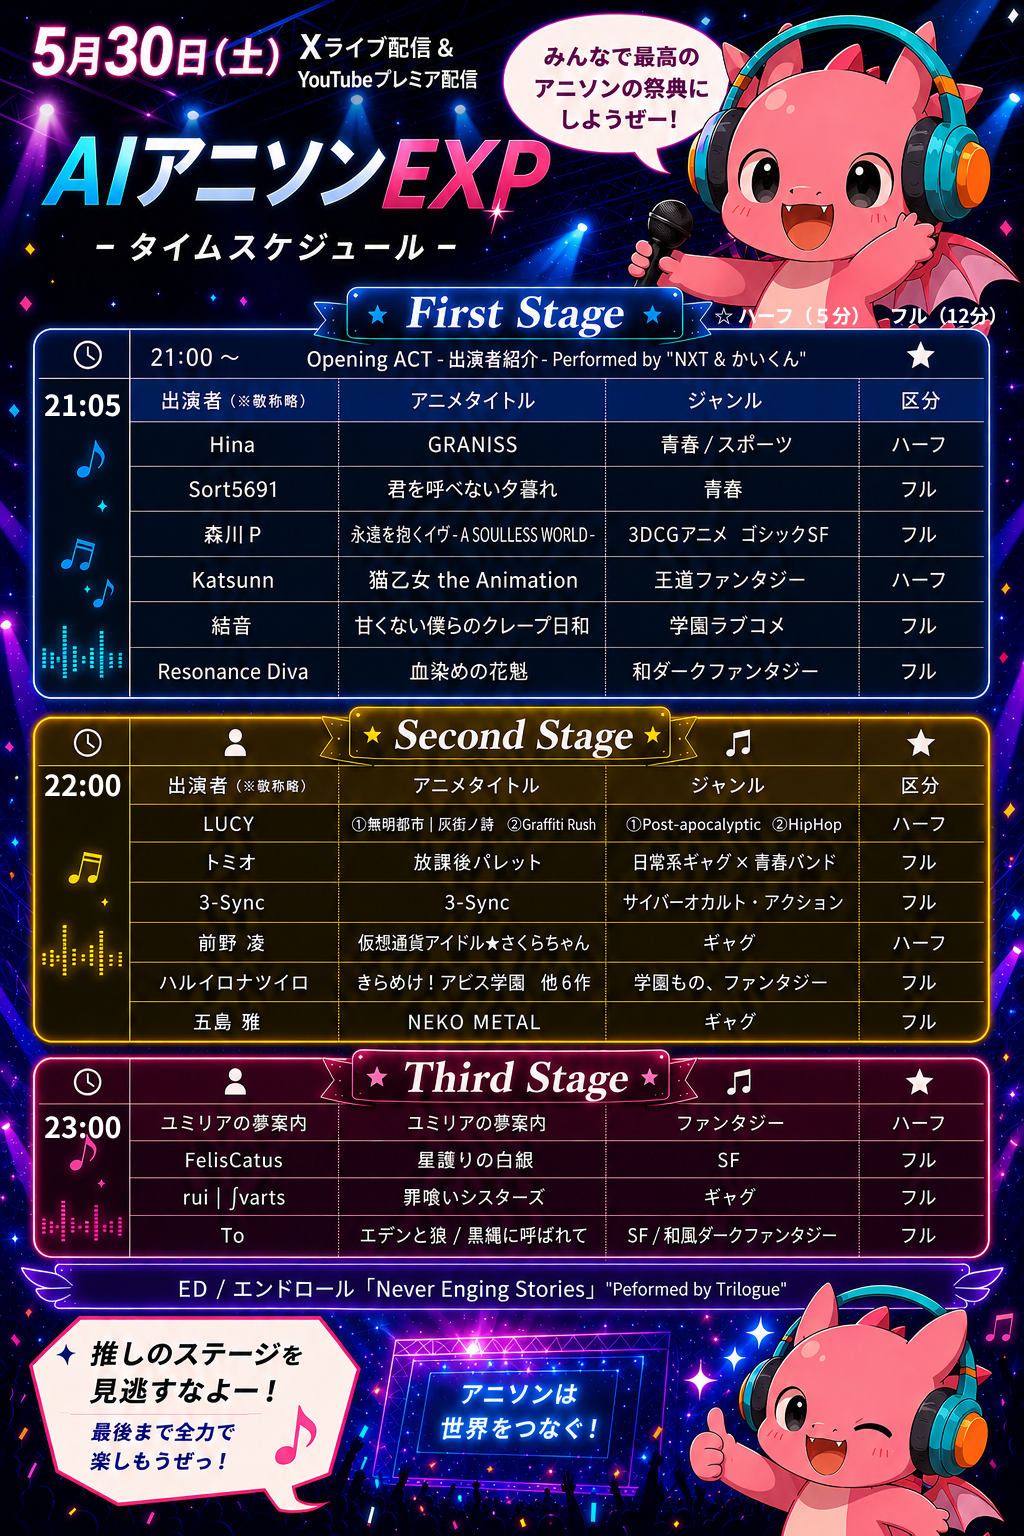
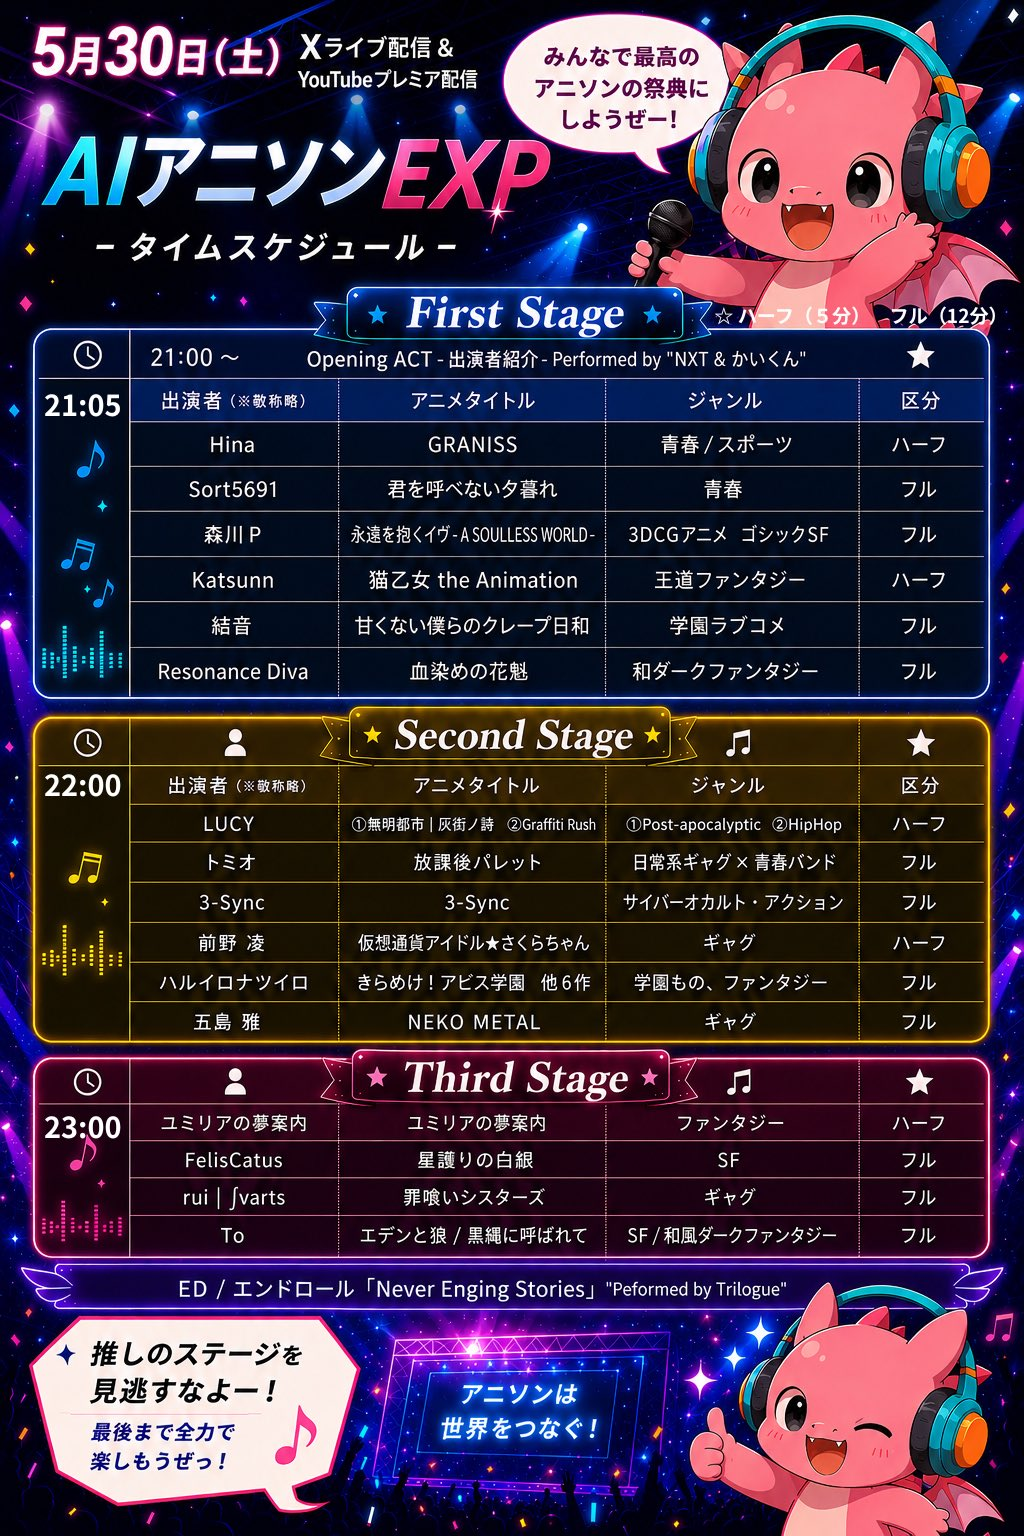
Add files via upload

diff --git a/index.html b/index.html
@@ -11,7 +11,6 @@
 </head>
 <body>
 
-  <!-- Floating Nav -->
   <header class="header">
     <div class="header-inner">
       <div class="header-site-name">AI Anison EXP</div>
@@ -20,7 +19,6 @@
         <a href="#timetable" data-i18n="nav.timetable">Timetable</a>
         <a href="#lineup" data-i18n="nav.lineup">Lineup</a>
         <a href="#petit-events" data-i18n="nav.petit">Petit Events</a>
-        <!-- 言語スイッチ -->
         <button class="lang-switch" id="lang-switch" aria-label="言語切り替え">
           <span class="lang-option" data-lang="en">EN</span>
           <span class="lang-divider">|</span>
@@ -30,46 +28,60 @@
     </div>
   </header>
 
-  <!-- Hero Section -->
-  <section class="hero">
+  <!-- 1. logo3.jpg / 2. logo.jpg -->
+  <section class="hero" id="top">
     <div class="hero-bg-elements">
       <div class="blur-circle sf-blue"></div>
       <div class="blur-circle fantasy-gold"></div>
     </div>
+
     <div class="hero-content">
-      <img src="./mainvisual-20260520.jpg" alt="AI Anison EXP key visual" class="hero-key-visual" />
-      <div class="hero-mini-logo-wrap"><img src="./logo.jpg" alt="AI Anison EXP logo" class="hero-logo" /></div>
+      <img src="./logo3.jpg" alt="AI Anison EXP メインビジュアル" class="hero-key-visual" />
+      <div class="hero-mini-logo-wrap">
+        <img src="./logo.jpg" alt="AI Anison EXP logo" class="hero-logo" />
+      </div>
+
       <h2 class="hero-subtitle" data-i18n="hero.subtitle">Generative Anime Song Festival</h2>
       <h1 class="hero-title" data-i18n="hero.title">AI Anison EXP</h1>
+
       <div class="event-date">
         <span class="date-icon">✧</span>
         <span class="date-text">2026.05.30 (Sat) 21:00 JST START</span>
       </div>
+
       <p class="hero-desc" data-i18n="hero.desc">
         AI技術と人の感性が交差する、次世代音楽フェス。<br>
         幻想と未来が共存するステージへようこそ。
       </p>
+
       <div class="live-status" id="live-status"></div>
-      <a href="#archive" class="live-button" id="live-button">▶ LIVEを見る</a>
+
+      <a href="https://x.com/i/broadcasts/1qKVmQllldYxB" target="_blank" rel="noopener noreferrer" class="live-button" id="live-button">
+        ▶ LIVEを見る
+      </a>
+
       <p class="hero-catchcopy" data-i18n="hero.catchcopy">一夜限りのアニソンフェス、ここでしか聴けない音がある</p>
     </div>
   </section>
 
-  <!-- Main Content Wrapper -->
   <main class="main-container">
 
+    <!-- 3. Archive -->
     <section id="archive" class="section">
       <div class="section-header">
         <h2 class="section-title">X Live <span>/ Archive</span></h2>
       </div>
+
       <div class="x-broadcast-container">
         <blockquote class="twitter-broadcast" data-broadcast-id="1qKVmQllldYxB">
           <a href="https://x.com/i/broadcasts/1qKVmQllldYxB">Broadcast</a>
         </blockquote>
       </div>
+
       <div class="youtube-caption" data-i18n="archive.caption">
         ※表示されない場合は、下のリンクからXライブ配信をご視聴ください。
       </div>
+
       <p class="x-broadcast-link">
         <a href="https://x.com/i/broadcasts/1qKVmQllldYxB" target="_blank" rel="noopener noreferrer">Xでライブ配信を見る →</a>
       </p>
@@ -80,8 +92,9 @@
         <h2 class="section-title">Time <span>Table</span></h2>
         <p class="section-desc" data-i18n="timetable.desc">当日の進行スケジュールです。</p>
       </div>
+
       <div class="timetable-image-wrap">
-        <img src="./timetable-20260520.png" alt="AIアニソンEXP タイムスケジュール" class="timetable-image" />
+        <img src="./timetable.png" alt="AIアニソンEXP タイムスケジュール" class="timetable-image" />
       </div>
     </section>
 
@@ -110,6 +123,5 @@
 
   <script async src="https://platform.twitter.com/widgets.js" charset="utf-8"></script>
   <script type="module" src="./main.js"></script>
-  <script src="./liveStatus.js"></script>
 </body>
 </html>

diff --git a/style.css b/style.css
@@ -1046,13 +1046,12 @@ a {
 }
 
 
-/* --- Force Top Visual Fix 20260520 --- */
+/* === Correct order fix: logo3.jpg -> logo.jpg -> Archive === */
 .hero {
-  order: 0 !important;
-}
-
-.main-container {
-  order: 1 !important;
+  display: flex !important;
+  position: relative !important;
+  min-height: auto !important;
+  padding: 100px 5% 72px !important;
 }
 
 .hero-content {
@@ -1067,19 +1066,55 @@ a {
   margin: 0 auto 28px !important;
   border-radius: 24px !important;
   box-shadow: 0 24px 64px rgba(15, 23, 42, 0.18) !important;
-  position: relative !important;
-  z-index: 1 !important;
 }
 
-#archive .hero-key-visual,
-#archive img[src*="logo3"],
+.hero-mini-logo-wrap {
+  display: block !important;
+  margin: 0 auto 12px !important;
+}
+
+.hero-mini-logo-wrap .hero-logo {
+  display: block !important;
+  width: min(420px, 74vw) !important;
+  height: auto !important;
+  margin: 0 auto 28px !important;
+  object-fit: contain !important;
+  filter: drop-shadow(0 8px 40px rgba(2, 132, 199, 0.2)) !important;
+  border-radius: 18px !important;
+}
+
+#archive img[src*="logo"],
+#archive img[src*="keyvisual"],
 #archive img[src*="mainvisual"] {
   display: none !important;
 }
 
+.timetable-image-wrap {
+  max-width: 1024px !important;
+  margin: 0 auto !important;
+  border-radius: 20px !important;
+  overflow: hidden !important;
+  box-shadow: 0 18px 48px rgba(2, 132, 199, 0.14) !important;
+}
+
+.timetable-image {
+  display: block !important;
+  width: 100% !important;
+  height: auto !important;
+}
+
 @media (max-width: 768px) {
+  .hero {
+    padding: 96px 5% 64px !important;
+  }
+
   .hero-key-visual {
     border-radius: 16px !important;
     margin-bottom: 20px !important;
+  }
+
+  .hero-mini-logo-wrap .hero-logo {
+    width: min(300px, 78vw) !important;
+    border-radius: 14px !important;
   }
 }
